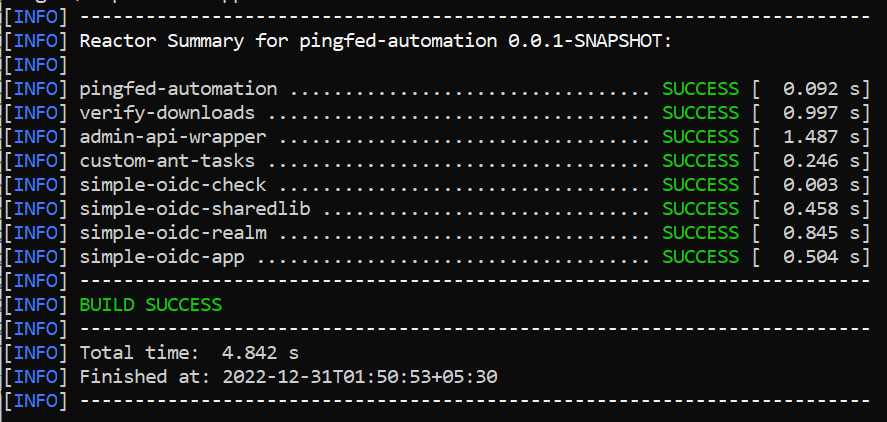
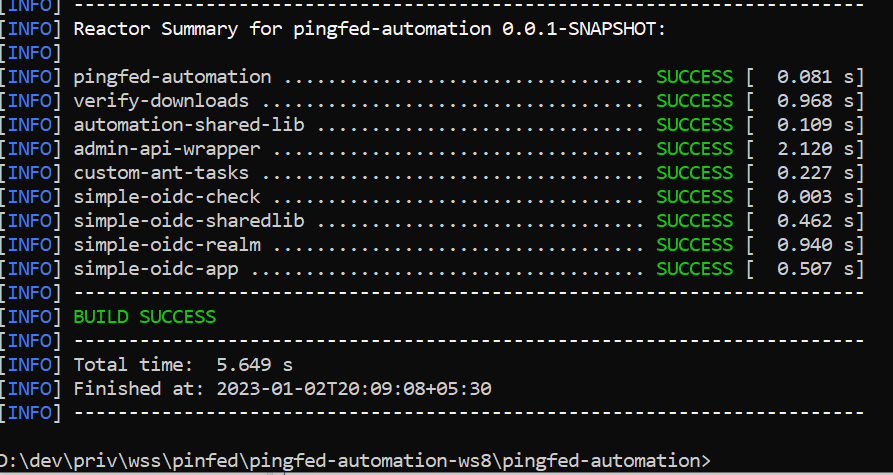
Revised setup

diff --git a/Setup.md b/Setup.md
@@ -14,7 +14,7 @@ In command prompt/terminal navigate to pingfed-automation folder.
 Run “mvn clean package” in command prompt.  
 <img width="420" alt="build" src="https://user-images.githubusercontent.com/14346578/210153578-7bab1333-c9c4-441c-841f-3636dcab39b4.png">  
 Wait for it to finish successfully.  
-<img width="444" alt="buildresult" src="https://user-images.githubusercontent.com/14346578/210153661-a61535fd-3296-43a1-aa43-9ed7cb6d8391.png">   
+<img width="447" alt="buildresult" src="https://user-images.githubusercontent.com/14346578/210246321-280ce33f-fa8a-4448-8826-3ef2efbb6475.png">    
 In command prompt/terminal navigate to "pingfed-automation/verify-downloads" folder.  
 Run "verifydownloads.bat" or "verifydownloads.sh".
 Might need to use "sudo chmod +x verifydownloads.sh" on linux.   
@@ -93,14 +93,18 @@ Copy its contents into the file- pingfed-automation\admin-api-wrapper\swagger-js
 This step has already been done if you are on version pingfederate-11.2.0.  
 If your pingfederate version is higher do please update the file content here.  
 #### Swagger Code generation
-In command prompt/terminal visit folder - "pingfed-automation/admin-api-wrapper".
+In command prompt/terminal visit folder - "pingfed-automation".
 Run "mvn clean package -P admin".    
-<img width="570" alt="codegen" src="https://user-images.githubusercontent.com/14346578/210154229-0231d23c-9c61-4dd4-aaee-973747be50da.png">    
+<img width="259" alt="codegen" src="https://user-images.githubusercontent.com/14346578/210247771-ee8abbce-3689-4c2f-9533-96f49850192f.png">       
 Result should look like this:   
-<img width="489" alt="codegen-result" src="https://user-images.githubusercontent.com/14346578/210154257-b2930d7f-0071-4374-88fc-d42ae5d8cee3.png">   
-Staying in same location in command prompt Run "java -jar target/admin-api-wrapper.jar admin.Main".  
-<img width="697" alt="automated_pingfed_config" src="https://user-images.githubusercontent.com/14346578/210154285-6e0b6552-7a5f-4e3f-b35a-7e3d76e7be78.png">   
-Visit https://localhost:9999/ and verify the results.  
+<img width="447" alt="buildresult" src="https://user-images.githubusercontent.com/14346578/210246321-280ce33f-fa8a-4448-8826-3ef2efbb6475.png">    
+This time because we used the admin profile during maven build there has also been some code generation.   
+Now navigate to "pingfed-automation\admin-api-wrapper" in command prompt.  
+Run "java -jar target/admin-api-wrapper.jar admin.Main".  
+<img width="697" alt="automated_pingfed_config" src="https://user-images.githubusercontent.com/14346578/210154285-6e0b6552-7a5f-4e3f-b35a-7e3d76e7be78.png">    
+Output should look like this:   
+<img width="681" alt="automated_pingfed_config_result" src="https://user-images.githubusercontent.com/14346578/210248610-0e0ce7c5-044e-4642-9a71-0351ced971cd.png">   
+Visit https://localhost:9999/ and verify the results in the admin console.  
 Lets quickly verify if this was done correctly or not.  
 #### Verify the automated configuration
 In command prompt or terminal navigate to pingfed-automation\simple-oidc-check folder.  
@@ -108,7 +112,7 @@ simple-oidc-check is a maven project. Its also a submodule of pingfed-automation
 It should be already built.  
 Its a simple servlet based project.  
 We are going to use this project to verify if we are able to obtain some access tokens from pingfederate.  
-In command prompt or terminal after navigating to pingfed-automation\simple-oidc-check folder run "ant". On linux use "sudo ant". 
+In command prompt or terminal after navigating to pingfed-automation\simple-oidc-check folder run "ant". On linux machines use "sudo ant". 
 <img width="451" alt="simple_oidc_check" src="https://user-images.githubusercontent.com/14346578/210154307-7414149b-75b0-452e-854b-3817de1ab6a8.png">   
 Build should show up like this.  
 <img width="591" alt="simple_oidc_check_ant_res" src="https://user-images.githubusercontent.com/14346578/210154342-1505f797-f26b-4b6f-9b5a-5d2e4b184791.png">   
